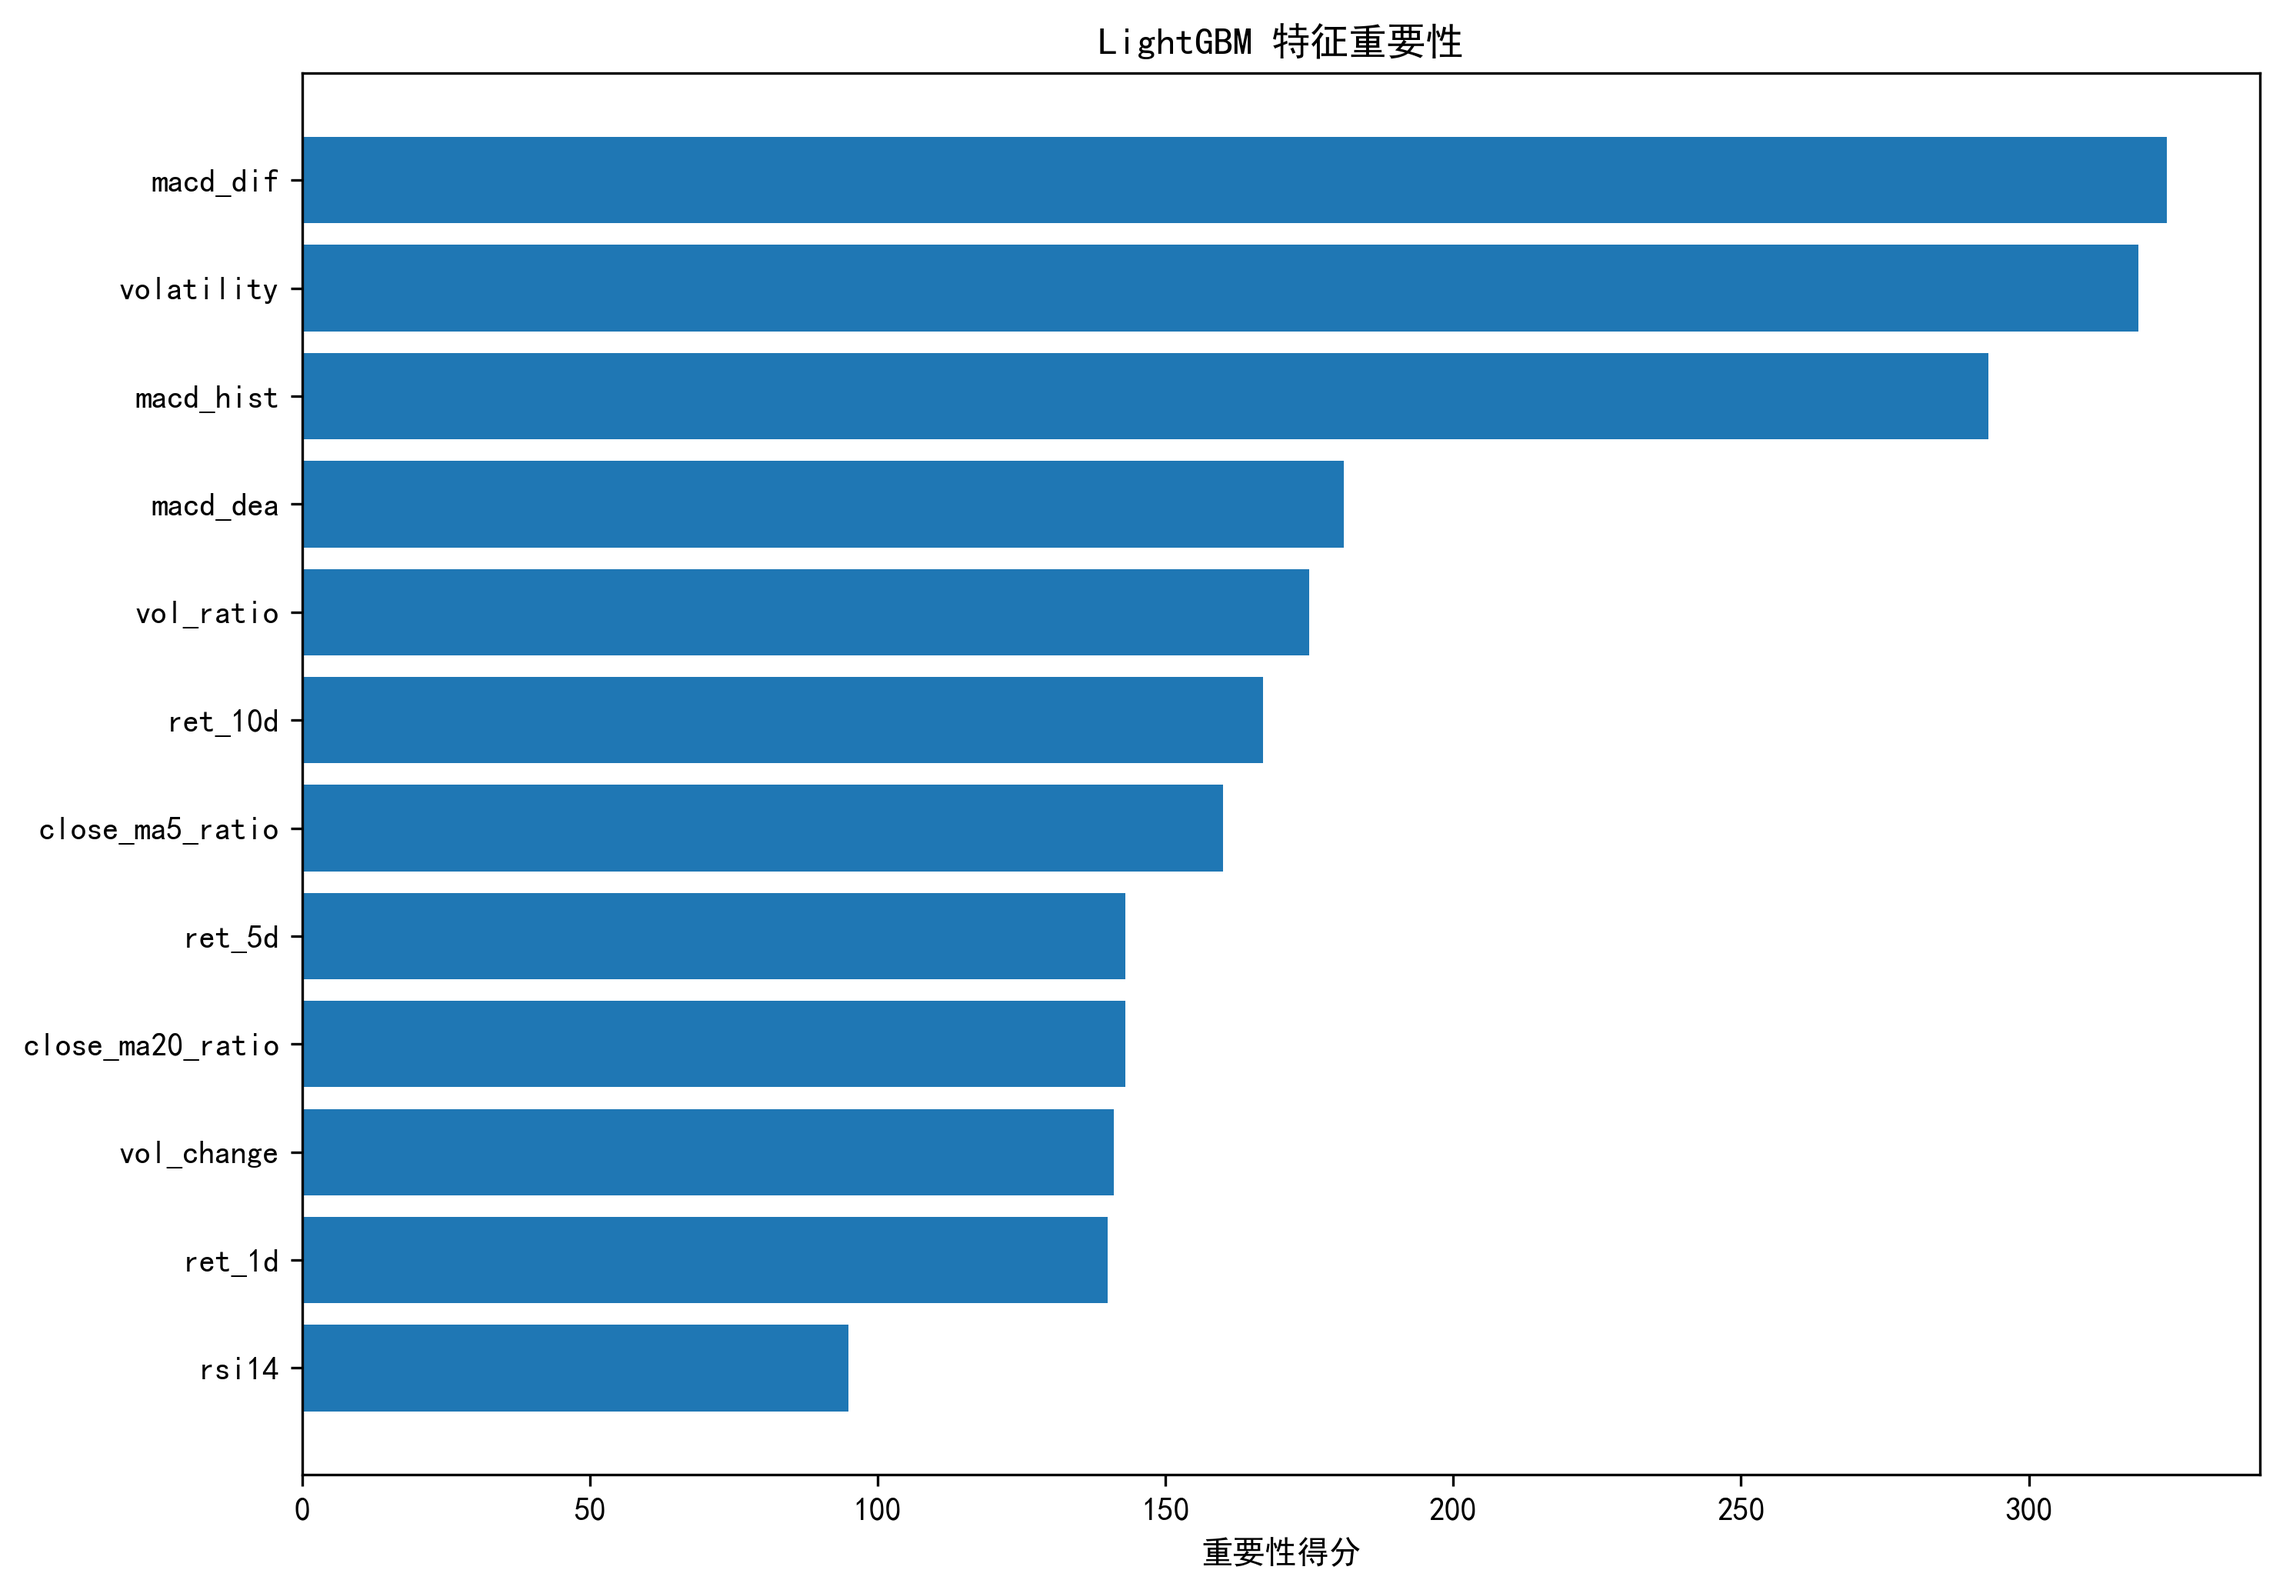
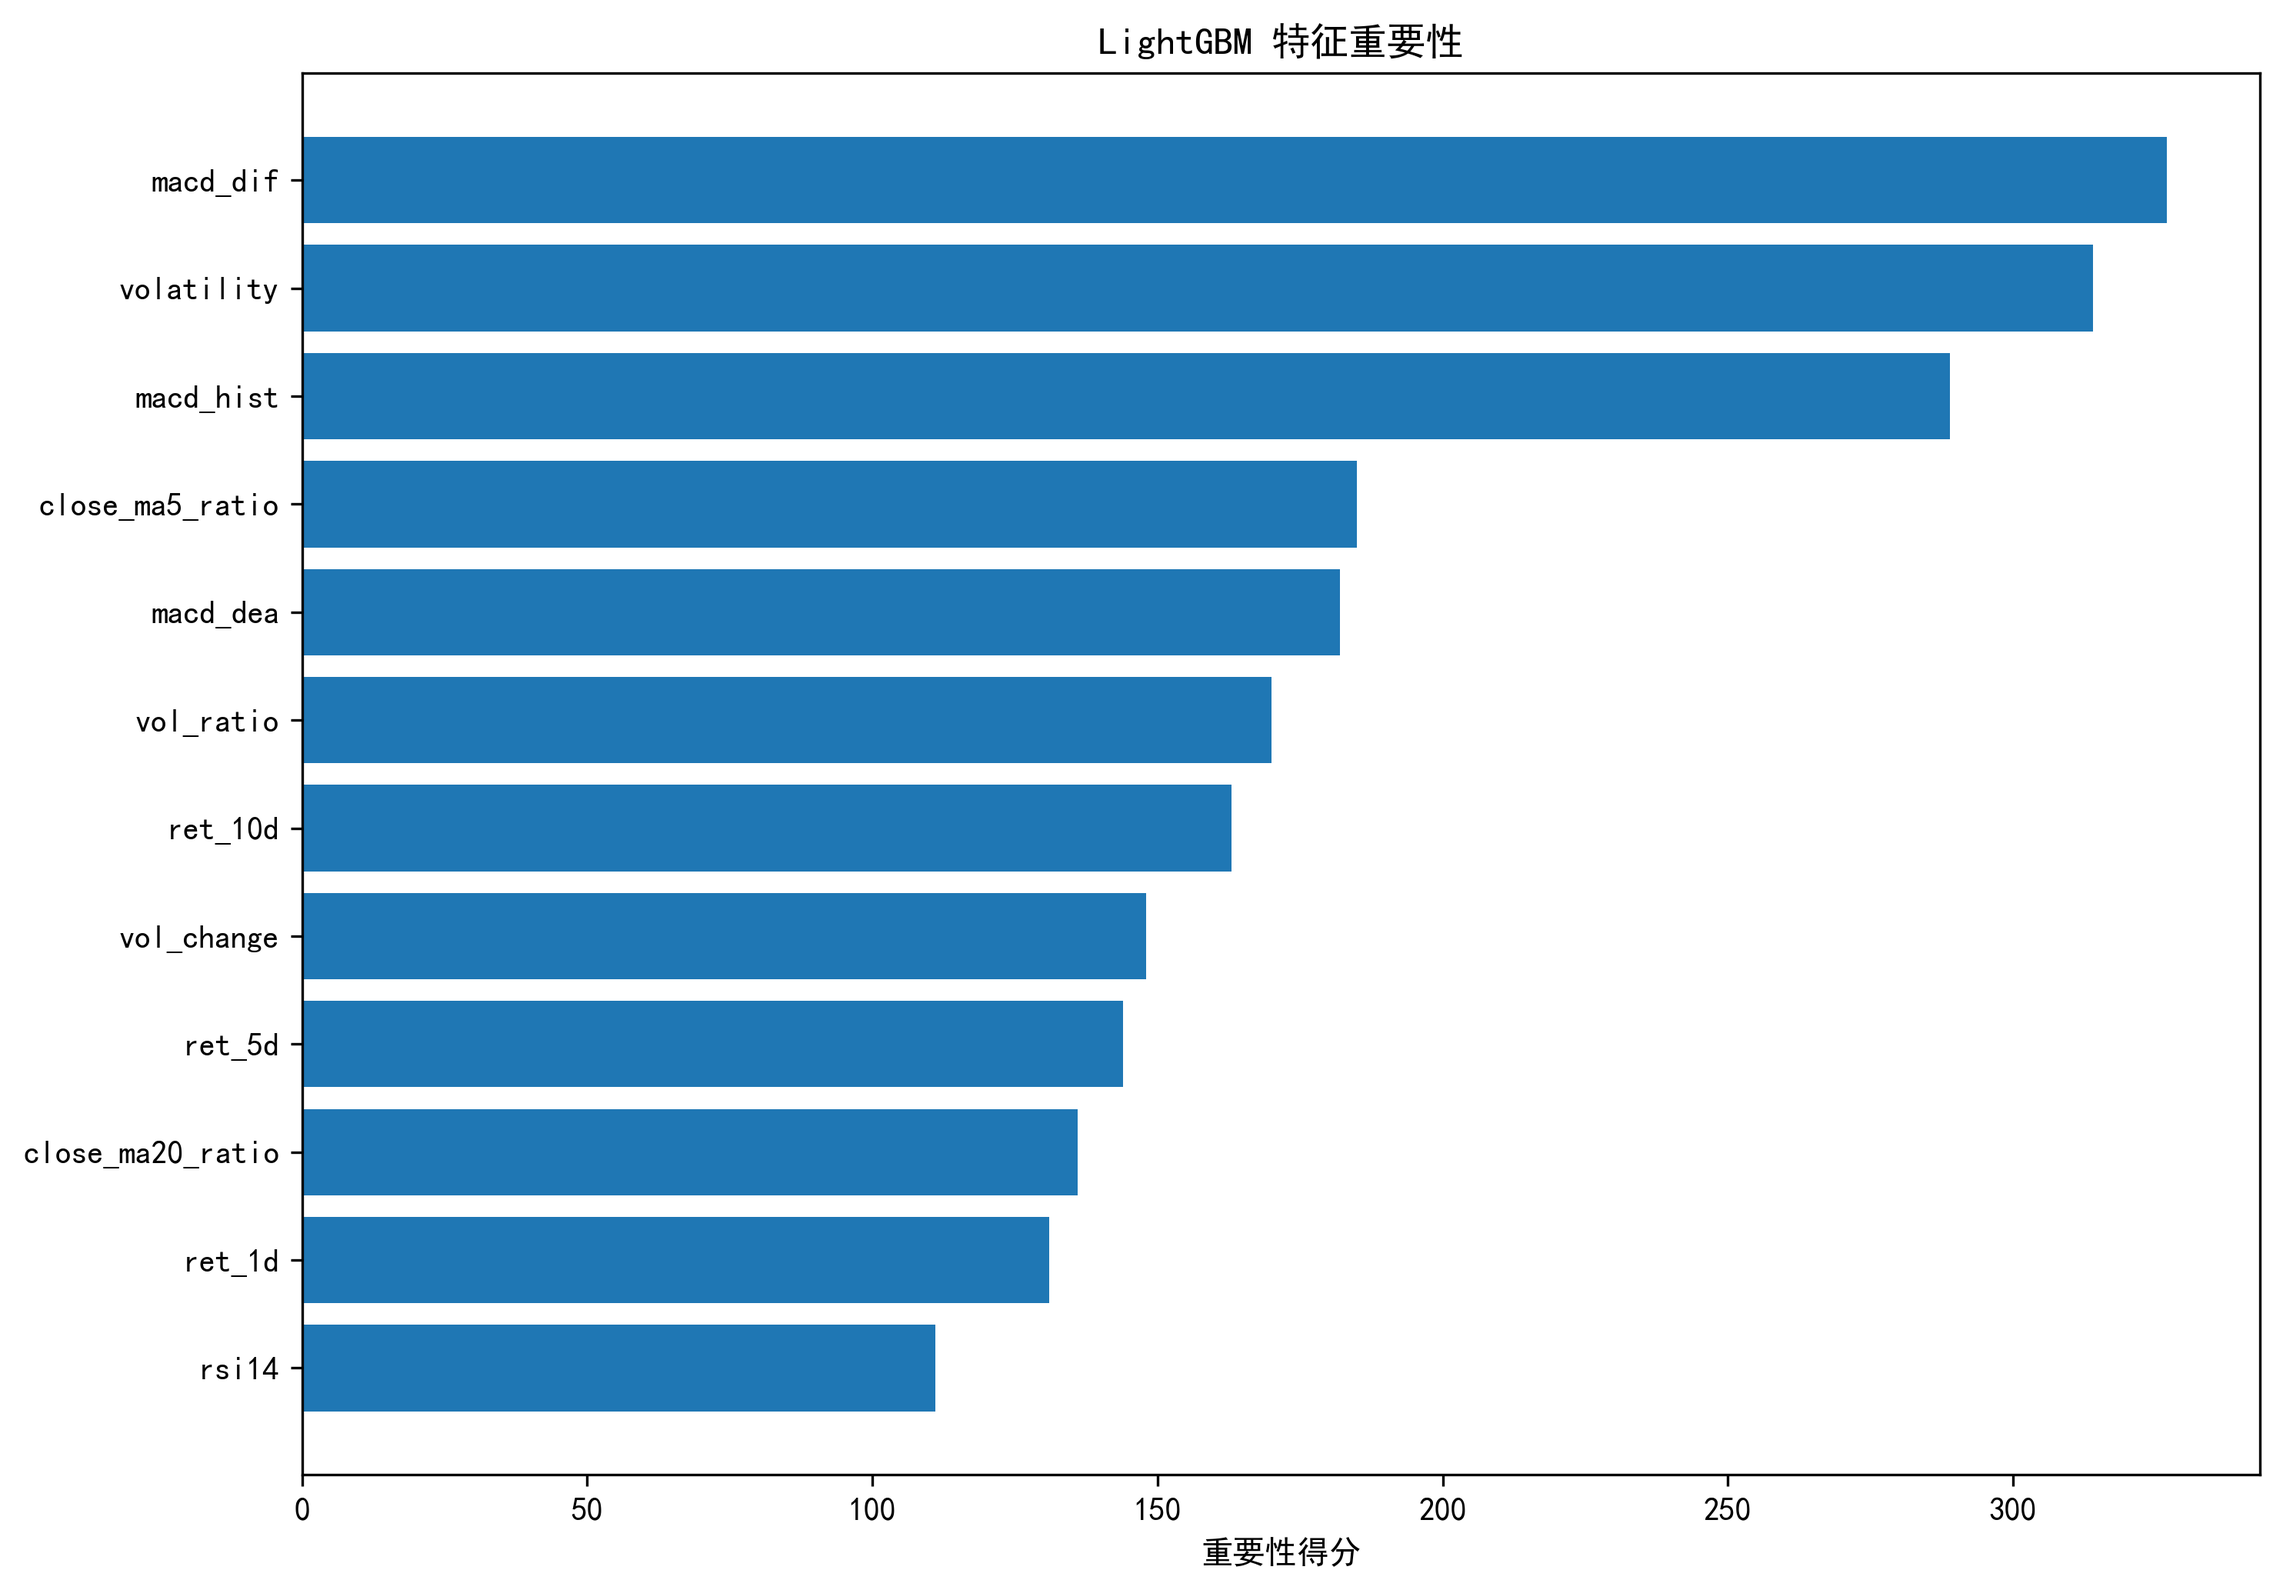
docs:新增网格搜索调参实验章节，更新文件树说明，添加实验截图

diff --git a/grid_search_gbdt.py b/grid_search_gbdt.py
@@ -1,0 +1,83 @@
+"""
+网格搜索调参实验：遍历max_depth / learning_rate，观察过拟合现象
+复用 batch_gbdt_event_strategy 的完整流水线
+输出：grid_search_result.csv，记录每组参数交叉验证、测试集、回测指标
+"""
+import os
+import pandas as pd
+from batch_gbdt_event_strategy import (
+    run_single_stock,
+    DEFAULT_PARAMS
+)
+
+# ======================调参网格定义======================
+# 树深度：越大模型容量越高，容易过拟合
+max_depth_list = [3,5,7,9]
+# 学习率：大学习率收敛快，容易震荡过拟合；小学习率更稳但迭代慢
+lr_list = [0.02, 0.05, 0.10]
+
+# 回测公共配置
+STOCK_CODE = "600519.SH"
+START = "20200101"
+END = "20241231"
+INIT_CAPITAL = 100000000
+MODEL_TYPE = "lgb"
+PROB_THRESHOLD = 0.35
+SELL_THRESHOLD = 0.45
+DATA_SOURCE = "akshare"
+REFRESH_CACHE = False
+NO_PLOT = True  # 网格搜索关闭绘图，避免生成大量图片
+TOKEN = ""
+CLUSTER_ID = -1
+# ======================================================
+
+def main():
+    out_rows = []
+    base_params = DEFAULT_PARAMS.copy()
+
+    for max_depth in max_depth_list:
+        for lr in lr_list:
+            print(f"\n==========实验 max_depth={max_depth}, lr={lr} ==========")
+            cur_params = base_params.copy()
+            cur_params["max_depth"] = max_depth
+            cur_params["learning_rate"] = lr
+
+            try:
+                res_dict = run_single_stock(
+                    token=TOKEN,
+                    stock_code=STOCK_CODE,
+                    start=START,
+                    end=END,
+                    initial_capital=INIT_CAPITAL,
+                    no_plot=NO_PLOT,
+                    model_type=MODEL_TYPE,
+                    model_params=cur_params,
+                    prob_threshold=PROB_THRESHOLD,
+                    sell_threshold=SELL_THRESHOLD,
+                    cluster_id=CLUSTER_ID,
+                    data_source=DATA_SOURCE,
+                    refresh_cache=REFRESH_CACHE
+                )
+                row = {
+                    "max_depth": max_depth,
+                    "learning_rate": lr,
+                    "cv_mean_acc": res_dict["cv_mean_acc"],
+                    "test_acc": res_dict["test_acc"],
+                    "total_return": res_dict["total_return"],
+                    "sharpe": res_dict["sharpe"],
+                    "max_drawdown": res_dict["max_drawdown"],
+                    "trade_cnt": res_dict["trade_cnt"]
+                }
+                out_rows.append(row)
+                print(row)
+            except Exception as e:
+                print(f"该组参数执行失败：{str(e)}")
+
+    df_out = pd.DataFrame(out_rows)
+    save_path = os.path.join("./output", "grid_search_result.csv")
+    df_out.to_csv(save_path, index=False, encoding="utf‑8‑sig")
+    print(f"\n✅网格搜索结果保存到 {save_path}")
+    print(df_out.to_string(index=False))
+
+if __name__ == "__main__":
+    main()

diff --git a/batch_gbdt_event_strategy.py b/batch_gbdt_event_strategy.py
@@ -338,7 +338,7 @@ def fetch_data_akshare(code: str, start: str, end: str, refresh_cache: bool = Fa
 def build_features(df: pd.DataFrame) -> pd.DataFrame:
     """
     根据原始日线计算全套技术因子与训练标签
-    注意：label使用shift(-5)未来5日数据，仅离线回测使用，实盘禁止使用该标签
+    注意：使用未来窗口价格构造标签，仅离线回测使用，实盘禁止使用该标签
     :param df: 原始日线DataFrame
     :return: 增加因子、label后的DataFrame
     """
@@ -364,9 +364,14 @@ def build_features(df: pd.DataFrame) -> pd.DataFrame:
     df['ret_5d'] = df['close'].pct_change(5)
     df['ret_10d'] = df['close'].pct_change(10)
     df['volatility'] = df['ret_1d'].rolling(14).std()
-    # 注意：shift(-5)使用未来5日价格构造标签，仅离线回测可用；实盘不可获取未来数据（未来函数风险）
+
+    # ----------------------
+    # 【当前启用：原始标签】未来第5日收盘价大于当日，标记上涨样本
+    # 样本分布相对均衡，适合网格搜索观察过拟合；仅离线回测，存在未来函数风险
+    # ----------------------
     df['label'] = (df['close'].shift(-5) > df['close']).astype(np.int64)
     return df
+
 
 def train_predict(df: pd.DataFrame, model_type: str, params: dict, stock_code: str, no_plot: bool):
     """

diff --git a/README.md b/README.md
@@ -41,11 +41,32 @@
 ![茅台 LightGBM特征重要性](./images/lgb_feature_importance_600519_SH.png)
 ![五粮液 LightGBM特征重要性](./images/lgb_feature_importance_000858_SZ.png)
 
+## 🧪 网格搜索调参实验
+> 实验目的：遍历树深度`max_depth`、学习率`learning_rate`，观察模型容量变化，直观演示机器学习过拟合现象
+> 回测区间：2020‑01‑01 ~ 2024‑12‑31
+> 测试标的：600519.SH 贵州茅台
+> 配置：LightGBM模型，时序5折TimeSeriesSplit交叉验证；事件驱动回测；初始资金1亿元，买入概率阈值0.35
+> 遍历参数：
+> - `max_depth: [3,5,7,9]`：树深度，控制模型容量，数值越大拟合能力越强，更容易记住训练集噪声
+> - `learning_rate: [0.02,0.05,0.10]`：学习率，迭代步长，步长过大容易震荡不稳定
+
+![网格搜索LGB调参结果](./images/grid_search_lgb_600519_result.png)
+
+### 📝实验结论
+1. 随着树深度`max_depth`增大，时序交叉验证准确率`cv_mean_acc`逐步上升，模型对训练集拟合效果变好；但**测试集准确率`test_acc`提升有限**，回测收益、夏普比率没有同步提升，出现典型过拟合：模型学习到训练集噪声，泛化能力没有同步增强。
+2. 学习率设置偏大（0.10）时，策略更容易出现更大的最大回撤，回测稳定性下降。
+3. 本项目默认超参`max_depth=5, learning_rate=0.05`，在该数据集实现训练拟合与泛化能力之间的权衡。
+4. ⚠实验踩坑记录：A股最小交易单位为1手(100股)，**初始资金不足时，即使模型发出买入信号，也会因为资金门槛无法成交，出现trade_cnt=0零交易现象**；本实验使用1亿初始资金规避资金门槛带来的成交抑制问题。
+5. ⚠风险提示：该机器学习策略在此回测区间整体无法获得正向收益；本实验仅用于演示建模调参与过拟合分析，**不构成任何投资建议**。
+
+> 备选标签拓展思考：项目中还实现了备选标签逻辑（未来5日最大涨幅大于3%标记上涨样本），可以过滤小幅价格噪声；但该构造方式会造成正样本数量稀少，模型输出上涨概率整体偏低，极易出现零交易；说明**标签构造对策略行为的影响往往大于模型超参数调优**。
 
 ## 项目文件结构
+
 ```
 ├── event_backtest.py           # 事件驱动底层回测内核，双均线策略示例
 ├── batch_gbdt_event_strategy.py# 批量多股票 GBDT (LGB/XGB) + 事件驱动回测
+├── grid_search_gbdt.py         # 网格搜索调参实验脚本，遍历 max_depth、learning_rate 观察过拟合
 ├── analyze_batch_result.py     # 批量回测结果分析脚本，读取汇总 csv，生成 Markdown 对比表格
 ├── ml_strategy.py              # 随机森林向量化快速回测（粗筛工具）
 ├── db_utils.py                 # MySQL 数据库读写工具类
@@ -59,13 +80,16 @@
 ```
 
 ### 文件说明
+### 文件说明
 - `event_backtest.py`：事件驱动回测内核，模拟真实下单、成交、持仓逻辑；支持单只标的回测。
 - `batch_gbdt_event_strategy.py`：批量回测脚本，调用事件驱动内核，支持LGB、XGBoost模型；支持K‑Means股票聚类实验，支持Tushare / AKShare双数据源切换。
+- `grid_search_gbdt.py`：网格搜索调参实验脚本，遍历树深度、学习率，输出超参组合回测指标csv，用于观察过拟合现象。
 - `analyze_batch_result.py`：批量回测后分析工具，读取output目录下批量汇总csv，自动生成Markdown格式指标对比表格，方便写入项目文档。
 - `ml_strategy.py`：向量化快速回测，**不模拟A股100手最小交易单位**，仅用于快速实验；严谨评估请使用事件驱动版本。
 - `db_utils.py`：MySQL数据库工具类，封装所有表的插入、查询操作；解决`np.nan`入库报错，处理事务提交、回滚、连接安全关闭，规避MySQL空闲断开问题。
 - `load_stock_basic.py`：手动写入股票基础信息，绕过Tushare stock_basic接口限流。
 - `init_db.sql`：MySQL数据库建表语句，包含行情、因子、回测结果全套表结构。
+
 
 
 ## 环境准备

diff --git a/images/batch_compare_table.md b/images/batch_compare_table.md
@@ -1,7 +1,6 @@
 # 批量多股票回测结果对比
-生成时间：2026-10-21 14:10:52
+生成时间：2026-10-21 14:40:25
 
 | stock_code   | model_type   |   cluster_id |   cv_mean_acc |   test_acc |   total_return |   annual_return |   sharpe |   max_drawdown |   trade_cnt |   fail_reason |
 |:-------------|:-------------|-------------:|--------------:|-----------:|---------------:|----------------:|---------:|---------------:|------------:|--------------:|
-| 600519.SH    | lgb          |           -1 |        0.5253 |     0.4938 |        -0.2423 |         -0.0561 |  -0.6978 |        -0.323  |         113 |           nan |
-| 000858.SZ    | lgb          |           -1 |        0.5329 |     0.5556 |        -0.2109 |         -0.0481 |  -0.4471 |        -0.3085 |         106 |           nan |
+| 600519.SH    | lgb          |           -1 |        0.5203 |     0.4856 |        -0.1069 |         -0.0232 |   -0.357 |        -0.2677 |         115 |           nan |
